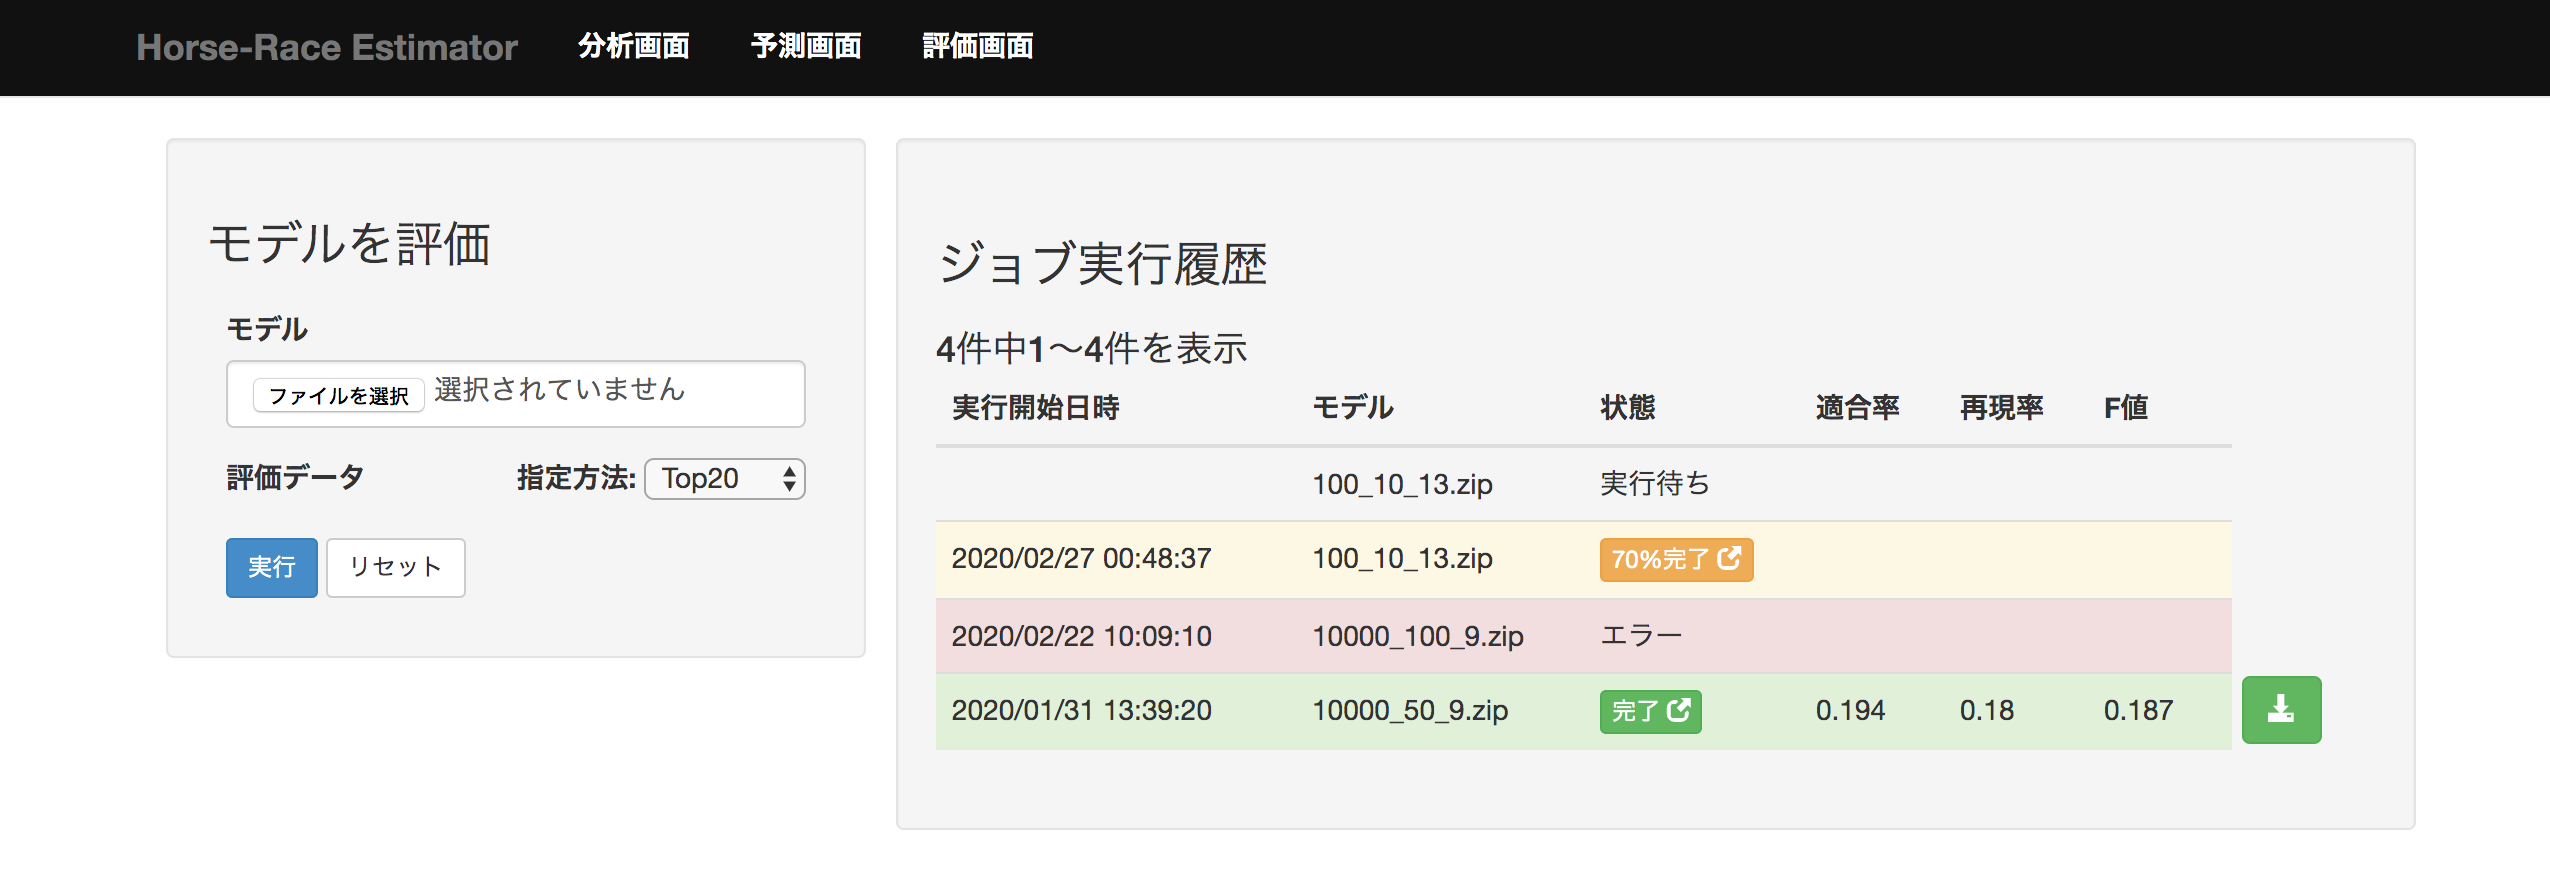
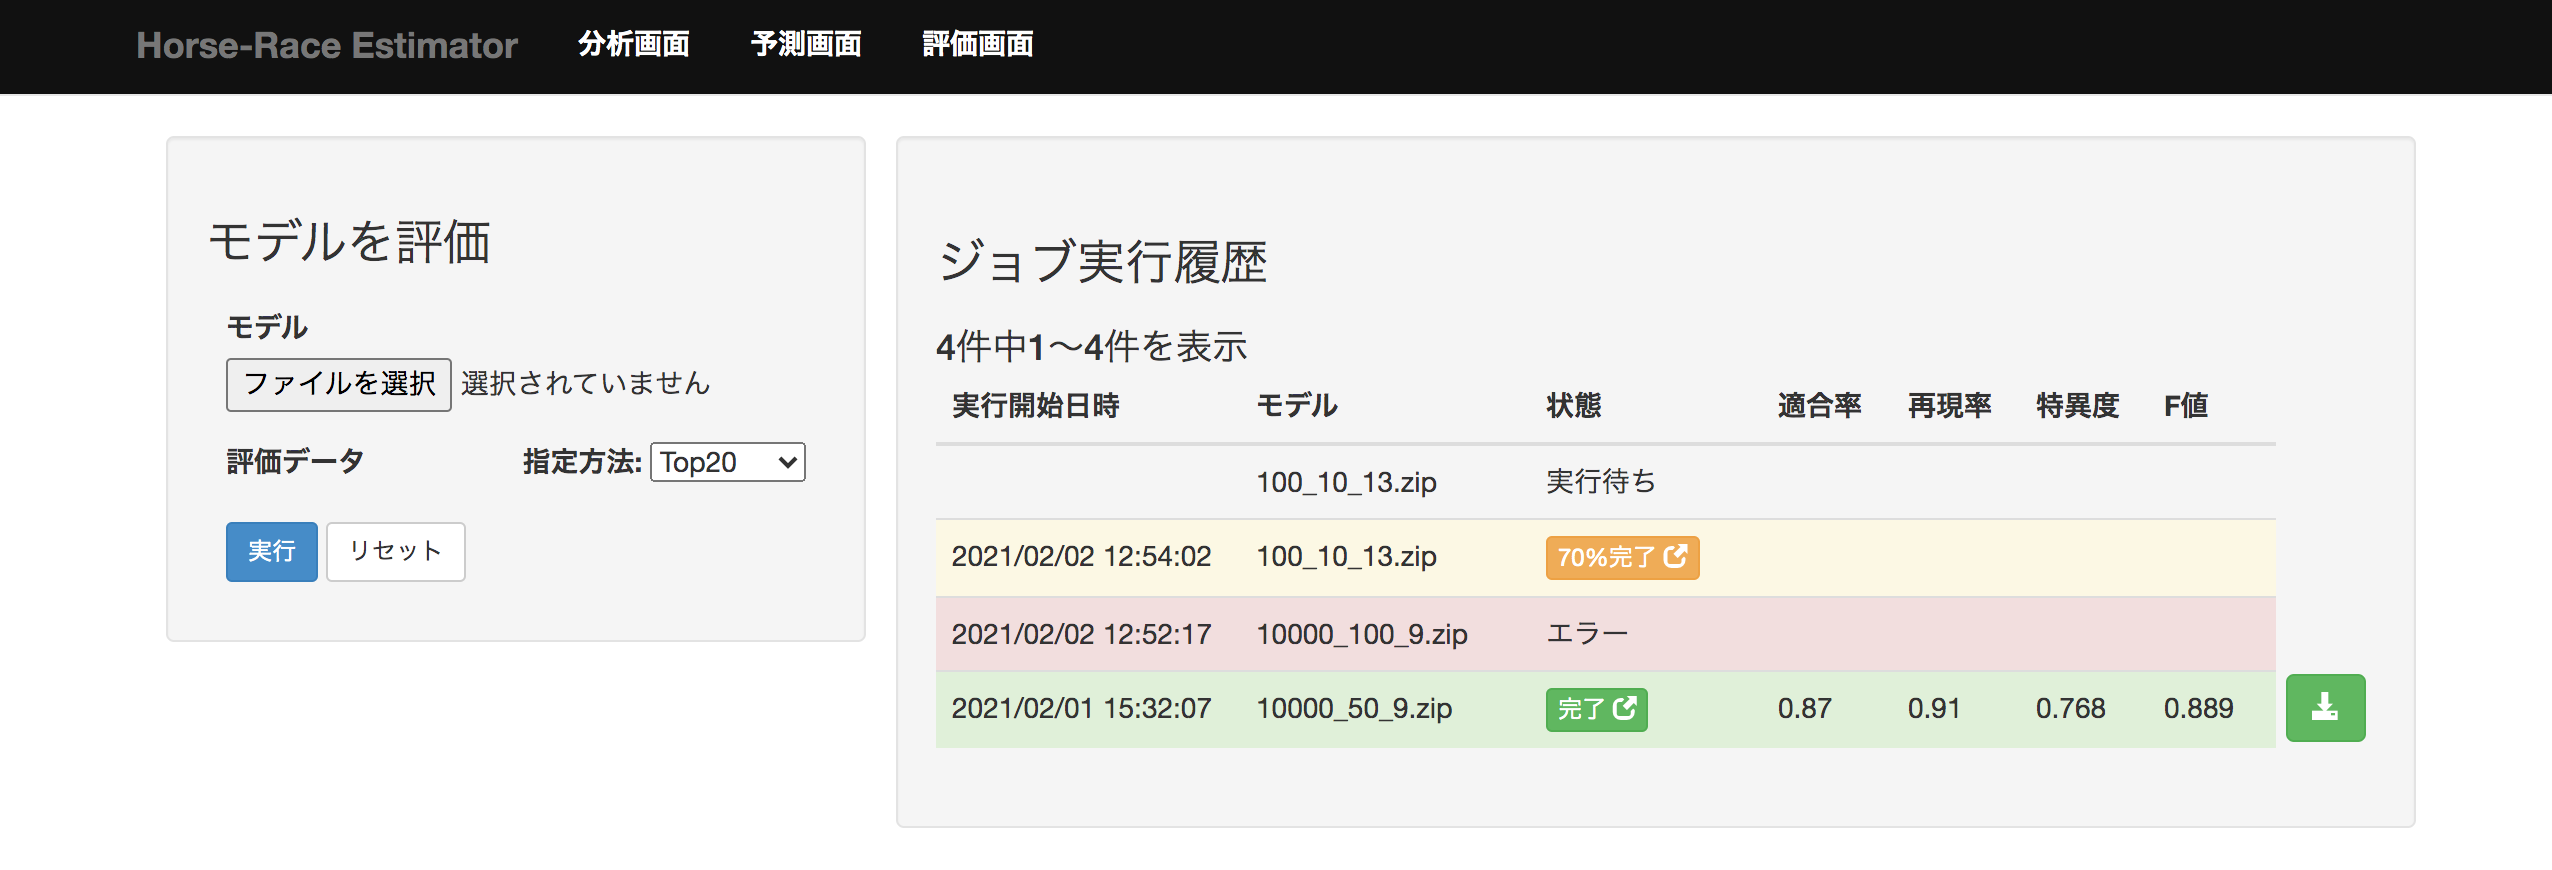
Alterf add specificity (#262)
* add specificity to resource

* add specificity to class.uml

* add specificity to table

* update evaluation view image

* fix class.uml

* update CHANGELOG.md

* add relation to class.uml

diff --git a/horse-race_estimator/alterf/external.rst b/horse-race_estimator/alterf/external.rst
@@ -222,6 +222,7 @@
      - error"
    precision,float,評価したモデルの適合率,- 0以上1以下の小数
    recall,float,評価したモデルの再現率,- 0以上1以下の小数
+   specificity,float,評価したモデルの特異度,- 0以上1以下の小数
    f_measure,float,評価したモデルのF値,- 0以上1以下の小数
    data,array[ :ref:`alt-ext-res-eva-data` ], :ref:`alt-ext-res-eva-data` 参照,
 

diff --git a/horse-race_estimator/alterf/internal.rst b/horse-race_estimator/alterf/internal.rst
@@ -570,6 +570,7 @@ evaluationsテーブル
    state,STRING,評価処理の状態,○
    precision,FLOAT,評価したモデルの適合度,
    recall,FLOAT,評価したモデルの再現率,
+   specificity,FLOAT,評価したモデルの特異度,
    f_measure,FLOAT,評価したモデルのF値,
    performed_at,DATETIME,分析ジョブの実行開始日時,
    analysis_id,INTEGER,分析ジョブの内部ID,

diff --git a/CHANGELOG.md b/CHANGELOG.md
@@ -1,3 +1,6 @@
+# 2021/02/03
+- [Alterf] update version to 4.19.0
+
 # 2021/01/27
 - [Zosma] update version to 3.1.0
 
